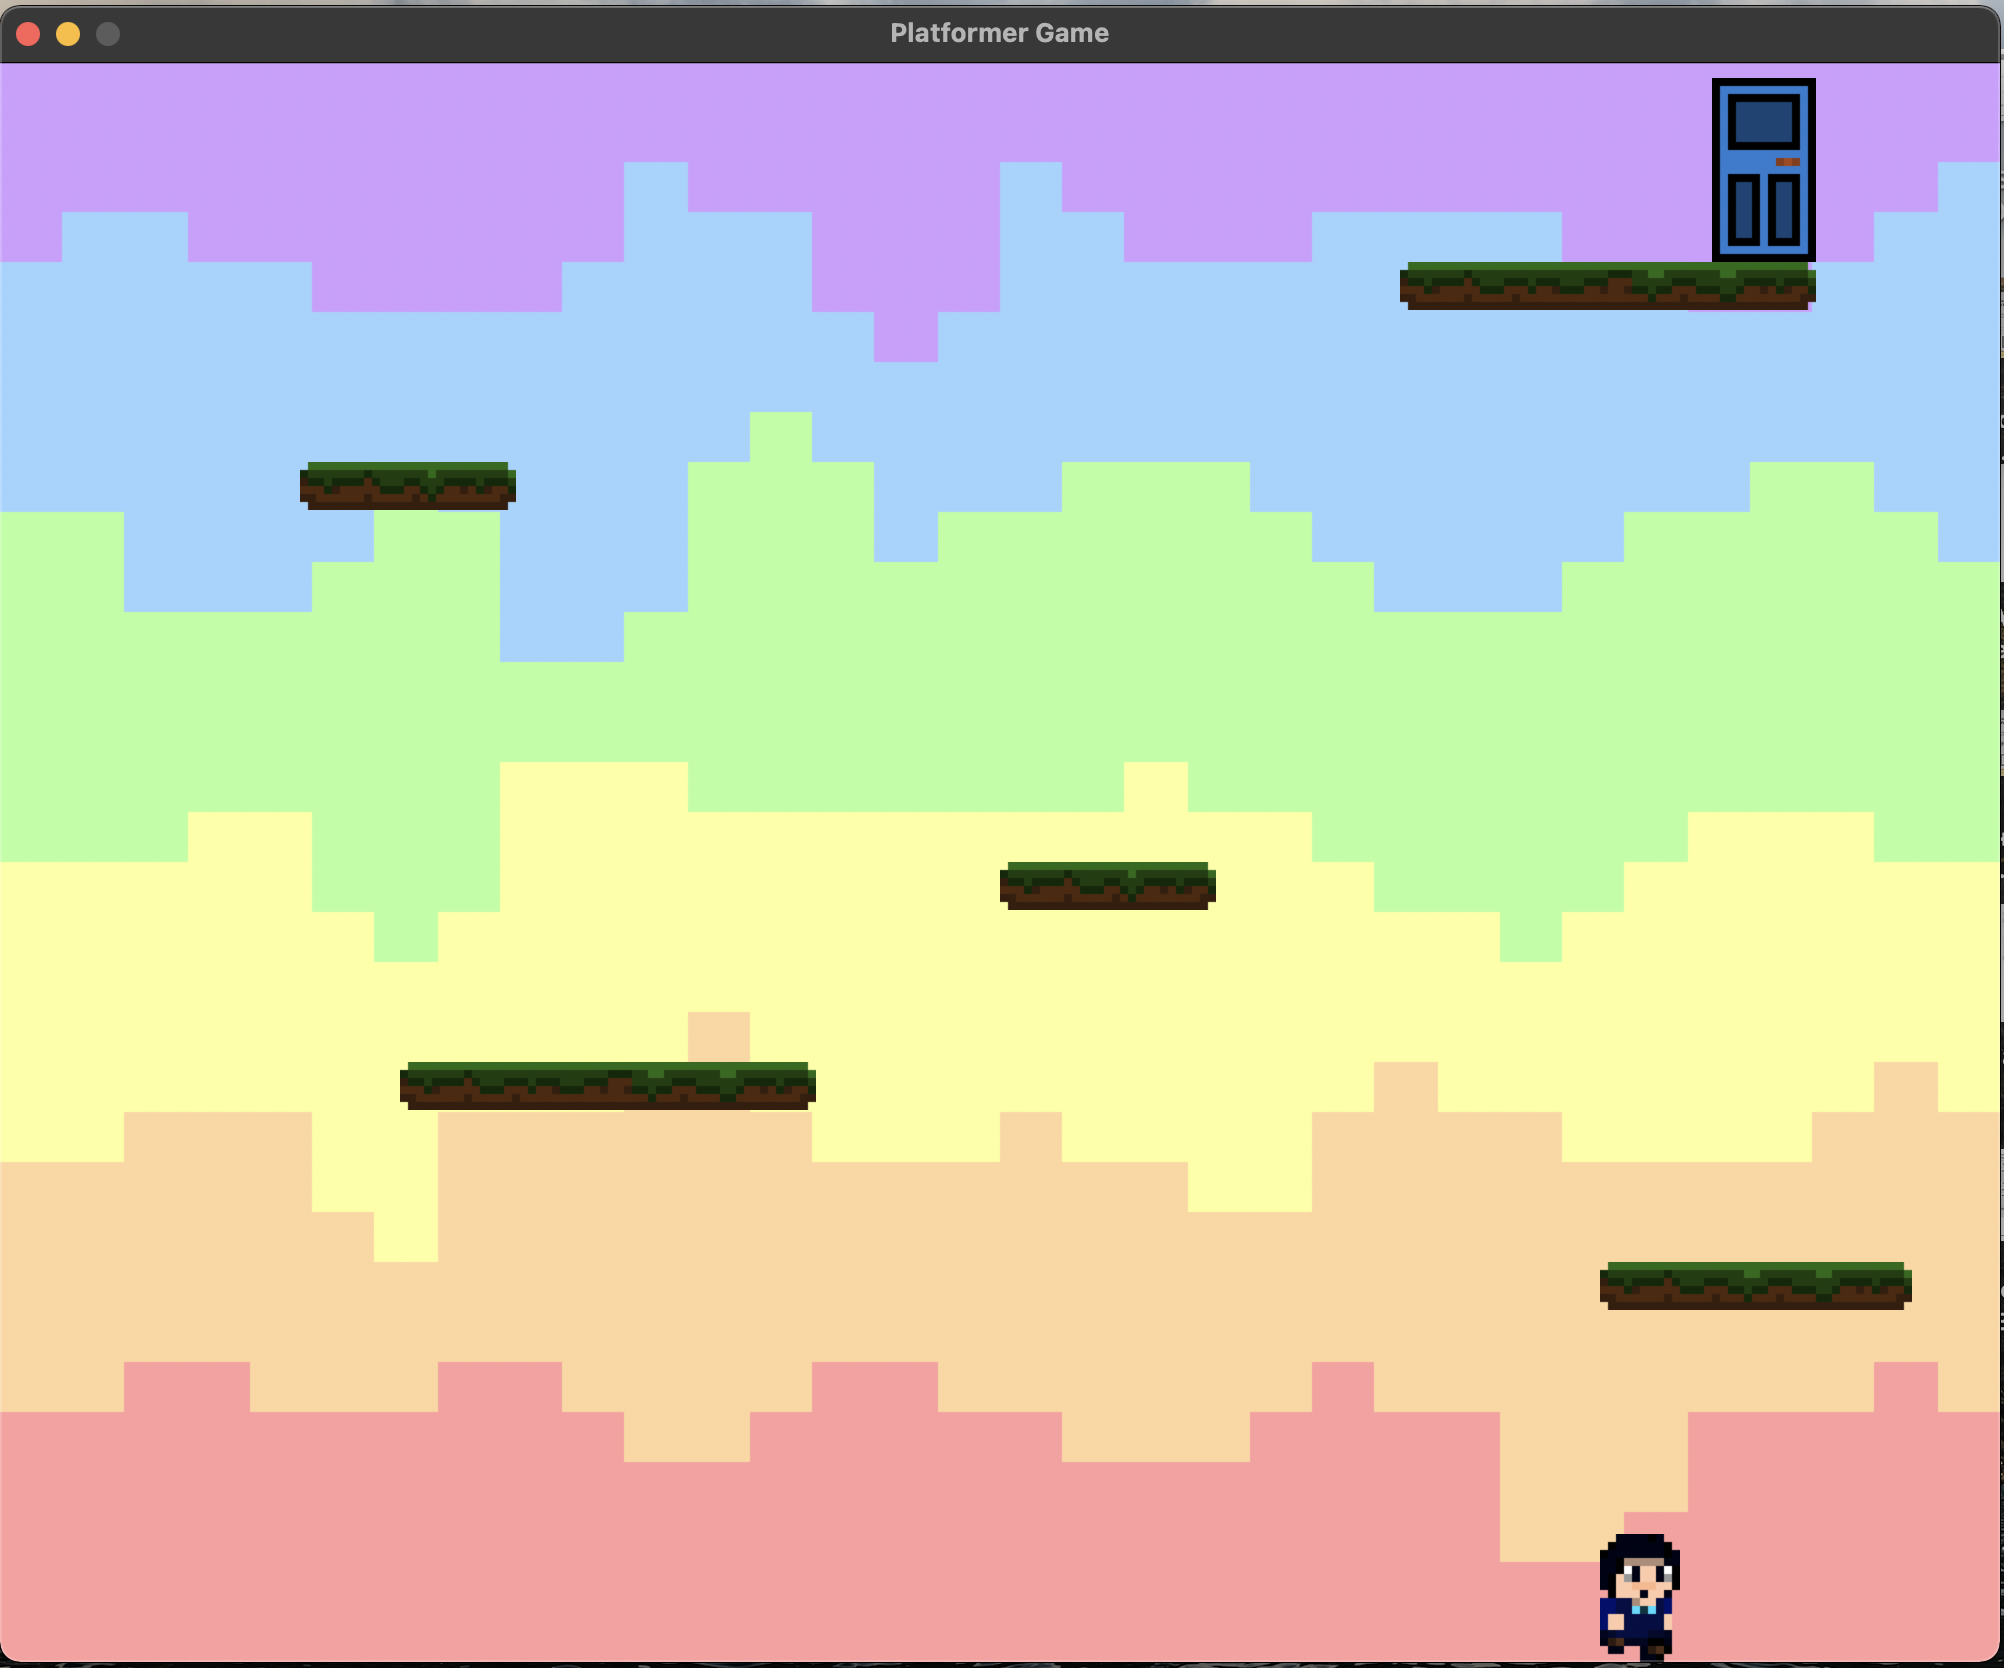
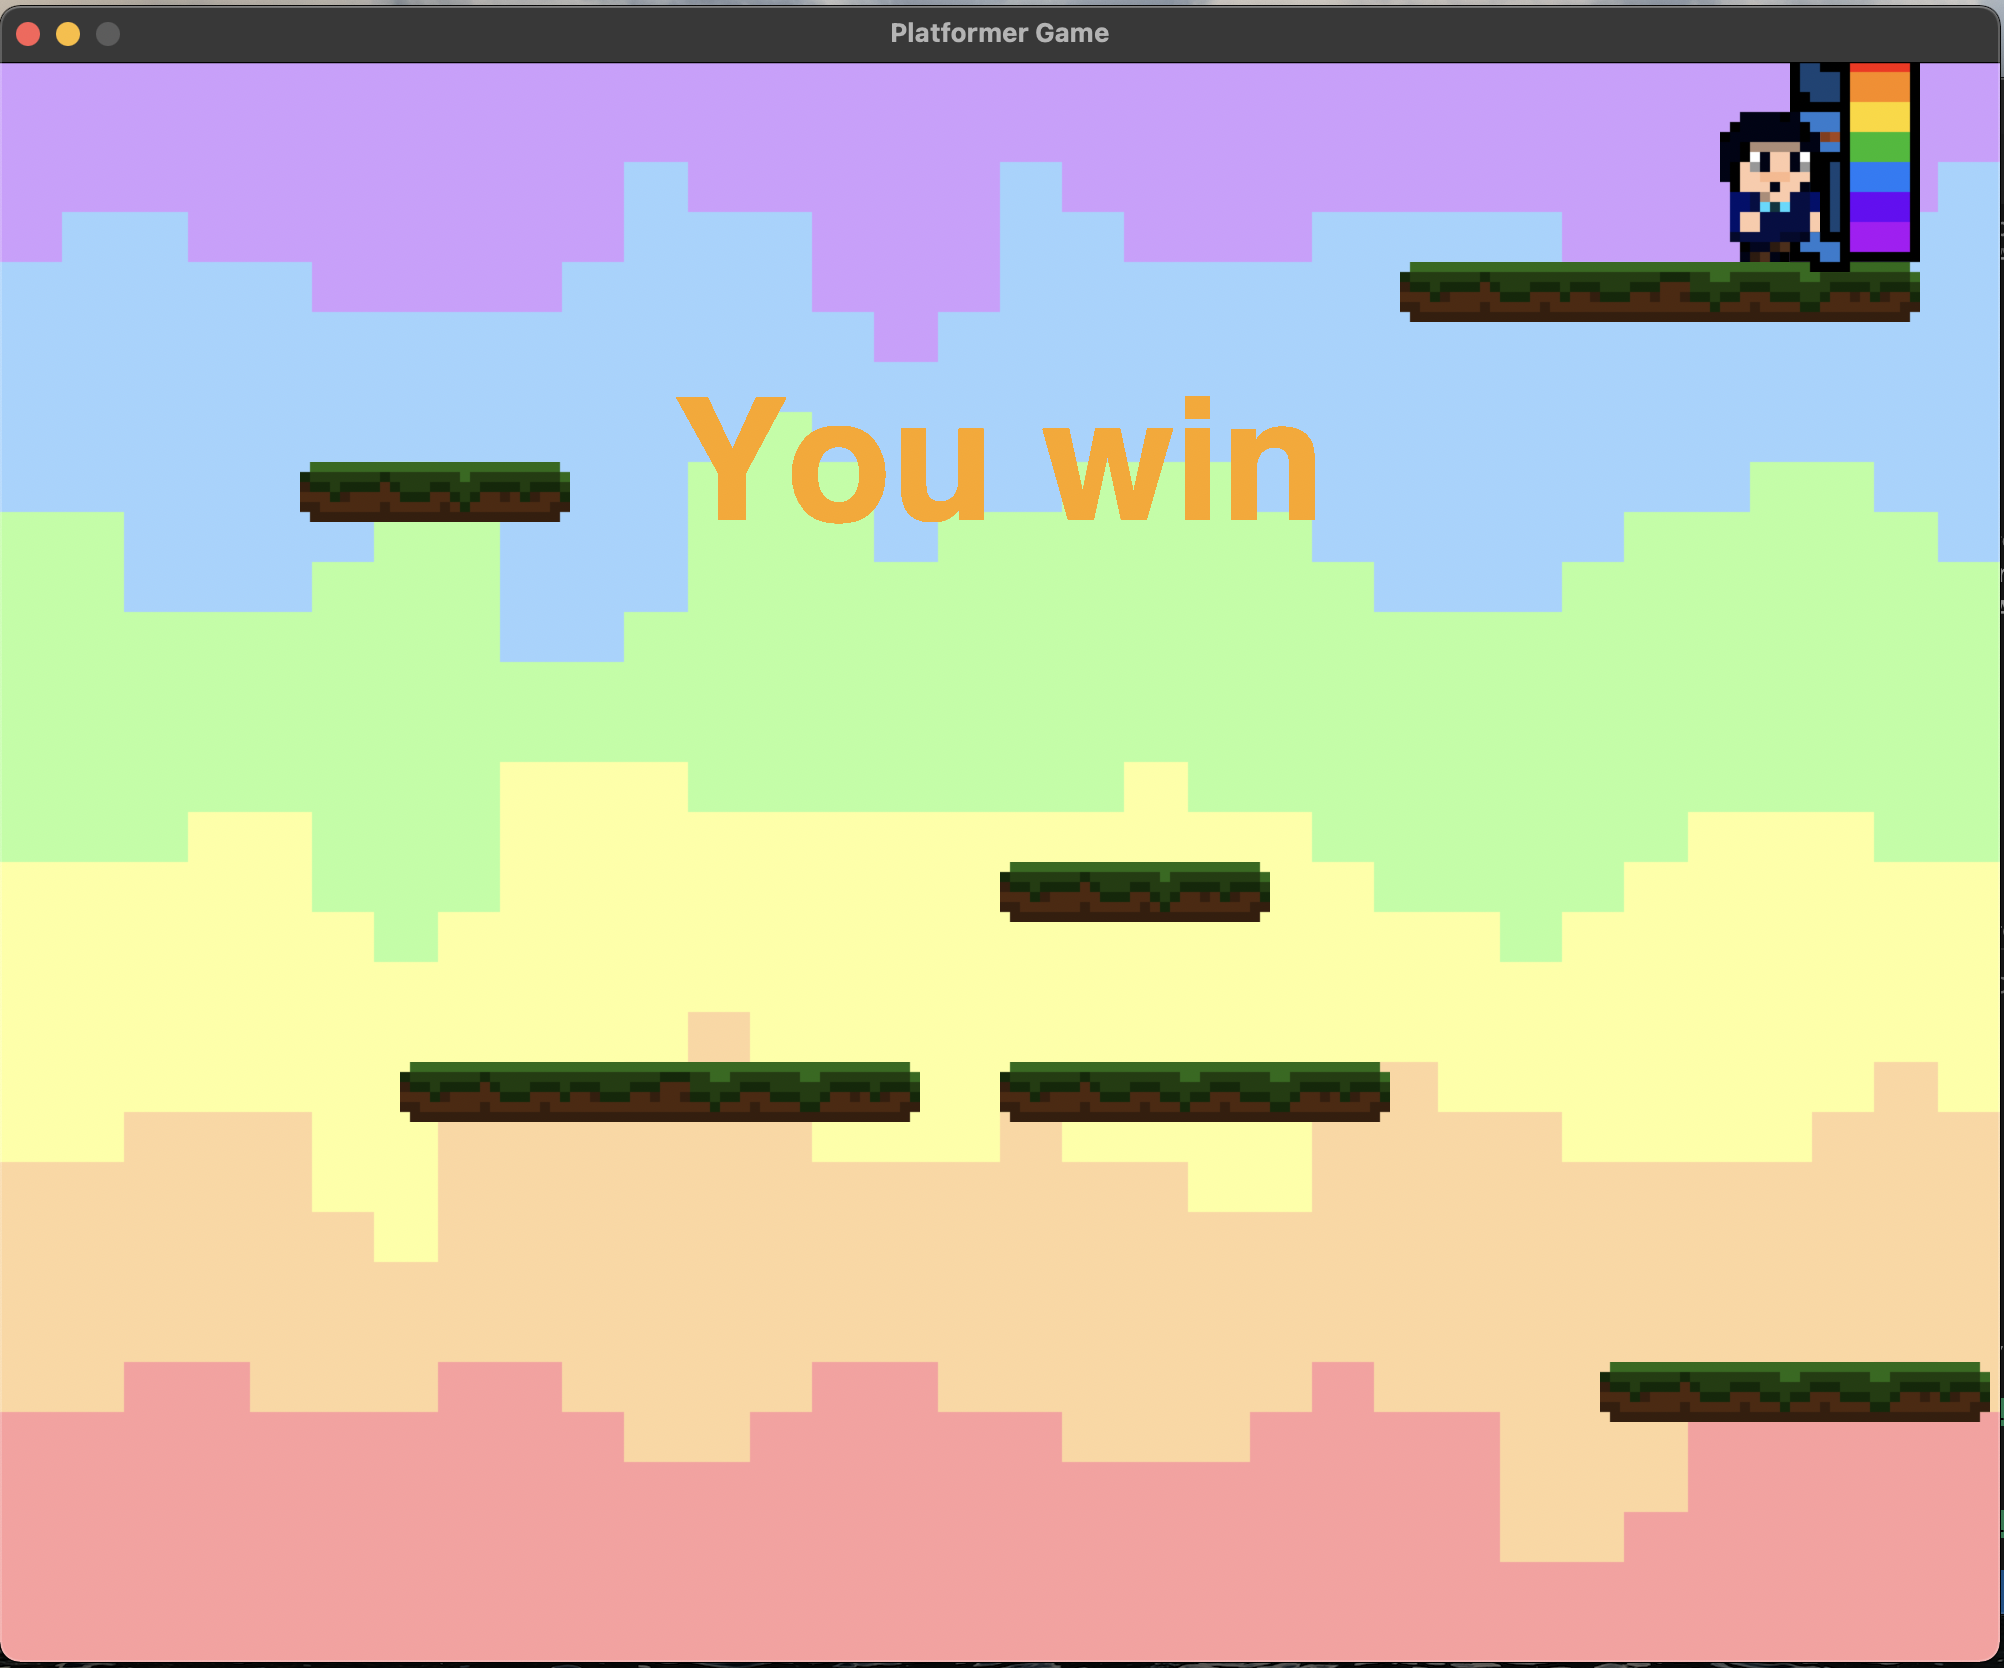
completed for the tutoring session

diff --git a/Sprite.py b/Sprite.py
@@ -38,28 +38,33 @@ class DoorSprite(Sprite):
         self.imageCoords = self.game.canvas.create_image(x, y, image=self.imageSelect, anchor='nw')
         self.coordinates = Coords(x, y, x + self.imageSelect.width(), y + self.imageSelect.height())
         
+    def animate(self):
+        self.game.canvas.itemconfig(self.imageCoords, image = self.images["door_open"])
+        
 class CharacterSprite(Sprite):
-    def __init__(self, game, imageName, x, y, facingLeft):
+    def __init__(self, game, x, y, facingLeft):
         Sprite.__init__(self, game)
         self.facingLeft = facingLeft
-        self.images_right = {
-            "first" : ImageTk.PhotoImage(resize_sprites(game.scale, "assets/character/characterSprites_first_stance.png")),
-            "second" : ImageTk.PhotoImage(resize_sprites(game.scale, "assets/character/characterSprites_second_stance.png")),
-            "third" : ImageTk.PhotoImage(resize_sprites(game.scale, "assets/character/characterSprites_third_stance.png"))
-        }
-        self.images_left = {
-            "first" : ImageTk.PhotoImage(mirror_sprite(resize_sprites(game.scale, "assets/character/characterSprites_first_stance.png"))),
-            "second" : ImageTk.PhotoImage(mirror_sprite(resize_sprites(game.scale, "assets/character/characterSprites_second_stance.png"))),
-            "third" : ImageTk.PhotoImage(mirror_sprite(resize_sprites(game.scale, "assets/character/characterSprites_third_stance.png")))
-        }
-        self.imageSelect = self.images_left[imageName] if facingLeft else self.images_right[imageName]
+        self.images_right = [
+            ImageTk.PhotoImage(resize_sprites(game.scale, "assets/character/characterSprites_first_stance.png")),
+            ImageTk.PhotoImage(resize_sprites(game.scale, "assets/character/characterSprites_second_stance.png")),
+            ImageTk.PhotoImage(resize_sprites(game.scale, "assets/character/characterSprites_third_stance.png"))
+        ]
+        self.images_left = [
+            ImageTk.PhotoImage(mirror_sprite(resize_sprites(game.scale, "assets/character/characterSprites_first_stance.png"))),
+            ImageTk.PhotoImage(mirror_sprite(resize_sprites(game.scale, "assets/character/characterSprites_second_stance.png"))),
+            ImageTk.PhotoImage(mirror_sprite(resize_sprites(game.scale, "assets/character/characterSprites_third_stance.png")))
+        ]
+        self.imageSelect = self.images_left[1] if facingLeft else self.images_right[1]
         self.imageCoords = self.game.canvas.create_image(x, y, image=self.imageSelect, anchor='nw')
+        self.imageIdx = 1
+        
         self.coordinates = Coords(x, y, x + self.imageSelect.width(), y + self.imageSelect.height())
         self.x = 0
         self.y = 0
         self.terminal = 70
         self.speed = 20
-        self.jump_v = -25
+        self.jump_v = -45
         self.direction = "stop"
         self.jump_count = 0
         self.jump_duration = 12
@@ -91,13 +96,31 @@ class CharacterSprite(Sprite):
             self.y = self.jump_v
         
     def animate(self):
-        pass
+        if self.x < 0:
+            self.facingLeft = True
+        elif self.x > 0:
+            self.facingLeft = False
+        if self.x != 0 and self.y == 0:
+            if time.time() - self.last_time > 0.1:
+                self.last_time = time.time()
+                self.imageIdx = (self.imageIdx + 1) % 2
+        if self.facingLeft:
+            if self.x < 0:
+                self.game.canvas.itemconfig(self.imageCoords, image = self.images_left[self.imageIdx])
+            else:
+                self.game.canvas.itemconfig(self.imageCoords, image = self.images_left[1])
+
+        elif not self.facingLeft:
+            if self.x > 0:
+                self.game.canvas.itemconfig(self.imageCoords, image = self.images_right[self.imageIdx])
+            else:
+                self.game.canvas.itemconfig(self.imageCoords, image = self.images_right[1])
+
+            
         
     def move(self):
         self.getDirection()
-        #animate when x is not 0
-        if self.x != 0:
-            self.animate()
+        self.animate()
         self.y += (self.game.gravity * self.game.gravity)
         co = self.coords()
         top = True
@@ -139,11 +162,13 @@ class CharacterSprite(Sprite):
                 self.x = 0
                 left = False
                 if sprite.endgame:
+                    sprite.animate()
                     self.game.running = False
             if right and self.x > 0 and collided_right(co, sprite_co):
                 self.x = 0
                 right = False
                 if sprite.endgame:
+                    sprite.animate()
                     self.game.running = False
         # for when we are not on the bottom not already falling but there are no collisions
         if falling and bottom and self.y == 0 and co.y2 < self.game.canvas_height:

diff --git a/Game.py b/Game.py
@@ -10,7 +10,7 @@ class Game:
     def __init__(self):
         
         self.tk = Tk()
-        self.scale = 4
+        self.scale = 5
         self.gravity = 1.6
         self.tk.title("Platformer Game")
         #so the screen is not resizable 0 means "False"
@@ -34,9 +34,12 @@ class Game:
             if self.running == True:
                 for sprite in self.sprites:
                     sprite.move()
+            if self.running == False:
+                self.canvas.create_text(self.canvas_width/2, self.canvas_height/2 - 200, text="You win", fill="orange", font=('Helvetica 85 bold'))
             self.tk.update_idletasks()
             self.tk.update()
             time.sleep(0.01)
+            
         
 #initiate the game here
 g = Game()
@@ -46,8 +49,8 @@ platforms = [
 ,PlatformSprite(g, "short", 150, 200)
 ,PlatformSprite(g, "long", 200, 500)
 ,PlatformSprite(g, "short", 500, 400)
-,PlatformSprite(g, "medium", 800, 700)
-,PlatformSprite(g, "medium", 600, 630)
+,PlatformSprite(g, "medium", 800, 650)
+,PlatformSprite(g, "medium", 500, 500)
 
 ]
 
@@ -55,7 +58,7 @@ platforms = [
 door = DoorSprite(g, "door_closed", 700 + (52 * g.scale) - (13 * g.scale), 100-(23 * g.scale), True)
 
 
-character = CharacterSprite(g, "first", 800, 800 - (16 * g.scale), True)
+character = CharacterSprite(g, 800, 800 - (16 * g.scale), True)
 
 #add all to the sprites array of the game
 g.sprites.extend(platforms)

diff --git a/Coords.py b/Coords.py
@@ -40,7 +40,7 @@ def collided_top(co1, co2):
 def collided_bottom(y, co1, co2):
     if within_x(co1, co2):
         y_calc = co1.y2 + y
-        if y_calc >= co2.y1 and y_calc <= co2.y2 + 24:
+        if y_calc >= co2.y1 and y_calc <= co2.y2 + 12:
             return True
     return False
 
